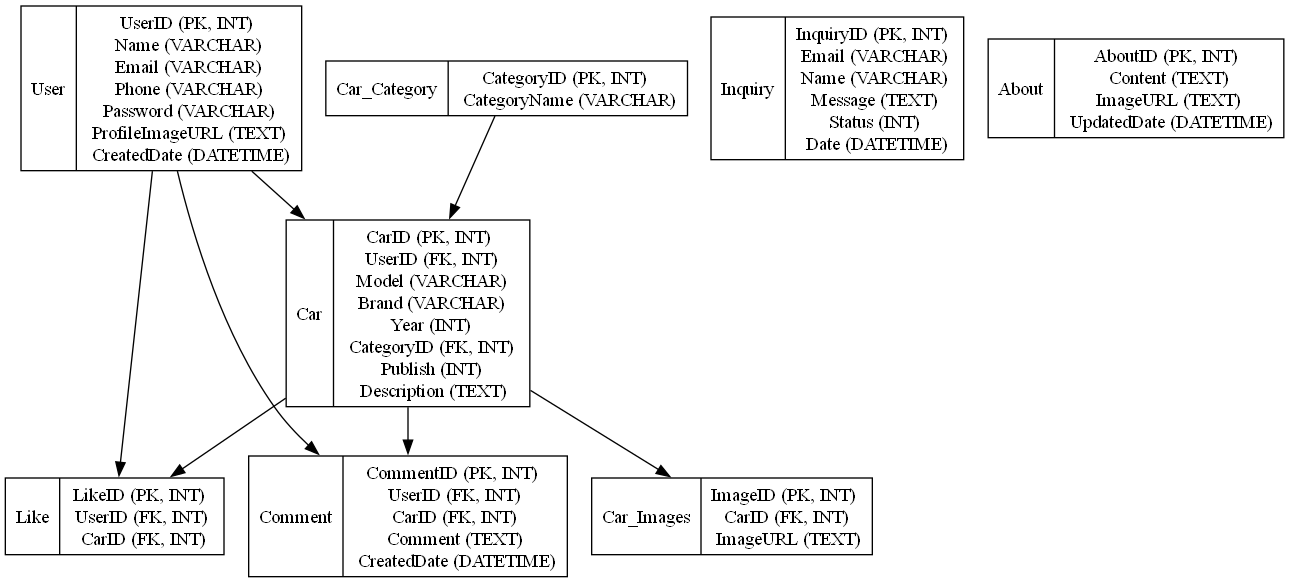
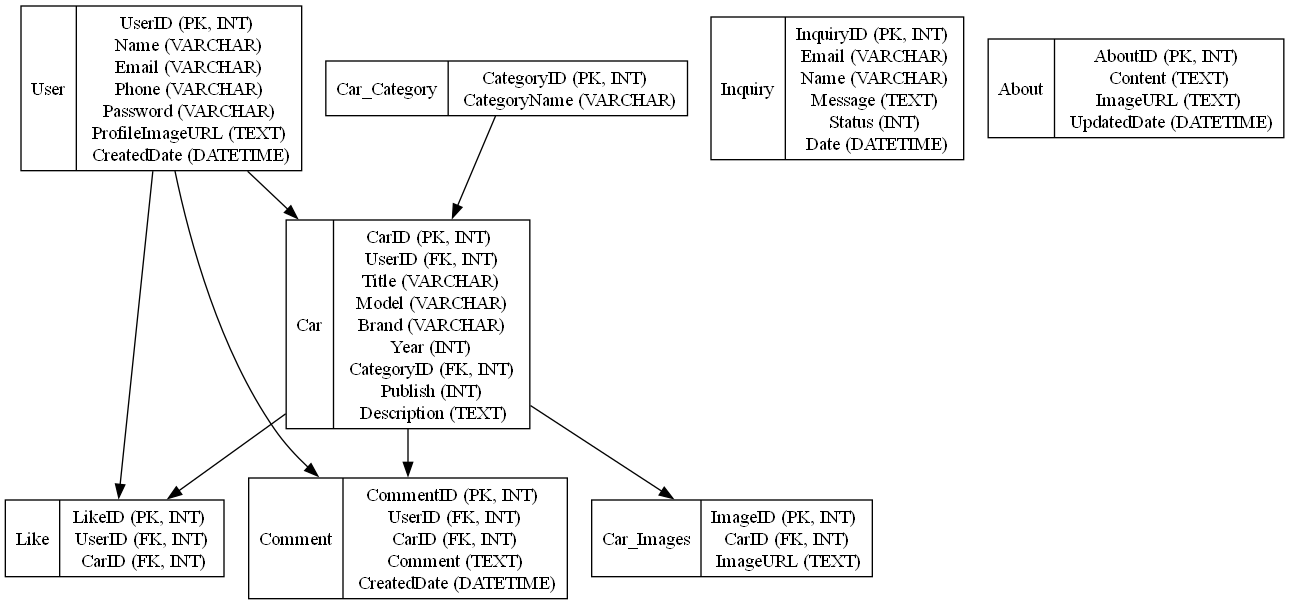
creat database connection

diff --git a/static/docs/graphvis.py b/static/docs/graphvis.py
@@ -1,0 +1,62 @@
+from graphviz import Digraph
+
+# Create a detailed ERD with attributes and data types
+erd_detailed = Digraph('ERD_Detailed', filename='cars_hub_erd', format='png')
+
+# Entities with attributes
+entities_detailed = {
+    "User": [
+        "UserID (PK, INT)", "Name (VARCHAR)", "Email (VARCHAR)", 
+        "Phone (VARCHAR)", "Password (VARCHAR)", "ProfileImageURL (TEXT)", 
+        "CreatedDate (DATETIME)"
+    ],
+    "Car": [
+        "CarID (PK, INT)", "UserID (FK, INT)", "Title (VARCHAR)", "Model (VARCHAR)",
+        "Brand (VARCHAR)", "Year (INT)", "CategoryID (FK, INT)", 
+        "Publish (INT)", "Description (TEXT)",
+    ],
+    "Comment": [
+        "CommentID (PK, INT)", "UserID (FK, INT)", "CarID (FK, INT)", 
+        "Comment (TEXT)", "CreatedDate (DATETIME)"
+    ],
+    "Like": [
+        "LikeID (PK, INT)", "UserID (FK, INT)", "CarID (FK, INT)"
+    ],
+    "Car_Category": [
+        "CategoryID (PK, INT)", "CategoryName (VARCHAR)"
+    ],
+    "Car_Images": [
+        "ImageID (PK, INT)", "CarID (FK, INT)", "ImageURL (TEXT)"
+    ],
+    "Inquiry": [
+        "InquiryID (PK, INT)", "Email (VARCHAR)", "Name (VARCHAR)",  "Message (TEXT)",
+        "Status (INT)", "Date (DATETIME)"
+    ],
+    "About": [
+        "AboutID (PK, INT)", "Content (TEXT)", "ImageURL (TEXT)", 
+        "UpdatedDate (DATETIME)"
+    ]
+}
+
+# Add entities and attributes to the ERD
+for entity, attributes in entities_detailed.items():
+    label = f"{entity} | " + " \\n ".join(attributes)
+    erd_detailed.node(entity, label=label, shape='record')
+
+# Relationships
+relations_detailed = [
+    ("Car_Category", "Car"),
+    ("Car", "Car_Images"),
+    ("User", "Comment"),
+    ("User", "Car"),
+    ("User", "Like"),
+    ("Car", "Like"),
+    ("Car", "Comment"),
+]
+
+for src, dst in relations_detailed:
+    erd_detailed.edge(src, dst)
+
+# Save ERD as PNG image
+erd_detailed.render('cars_hub_erd', format='png', cleanup=False)
+

diff --git a/carshub/settings.py b/carshub/settings.py
@@ -11,7 +11,11 @@ https://docs.djangoproject.com/en/4.2/ref/settings/
 """
 
 from pathlib import Path
+import dj_database_url
 import os
+
+if os.path.isfile('env.py'):
+    import env
 
 # Build paths inside the project like this: BASE_DIR / 'subdir'.
 BASE_DIR = Path(__file__).resolve().parent.parent
@@ -22,7 +26,7 @@ TEMPLATES_DIR = os.path.join(BASE_DIR, 'templates')
 # See https://docs.djangoproject.com/en/4.2/howto/deployment/checklist/
 
 # SECURITY WARNING: keep the secret key used in production secret!
-SECRET_KEY = 'django-insecure-e-*v+i59=7cwbz40sxpi(nq=y144gi%zgp-n@&r4c2o95f-vj2'
+SECRET_KEY = os.environ.get("SECRET_KEY")
 
 # SECURITY WARNING: don't run with debug turned on in production!
 DEBUG = False
@@ -74,14 +78,8 @@ TEMPLATES = [
 WSGI_APPLICATION = 'carshub.wsgi.application'
 
 
-# Database
-# https://docs.djangoproject.com/en/4.2/ref/settings/#databases
-
 DATABASES = {
-    'default': {
-        'ENGINE': 'django.db.backends.sqlite3',
-        'NAME': BASE_DIR / 'db.sqlite3',
-    }
+    'default': dj_database_url.parse(os.environ.get("DATABASE_URL"))
 }
 
 
